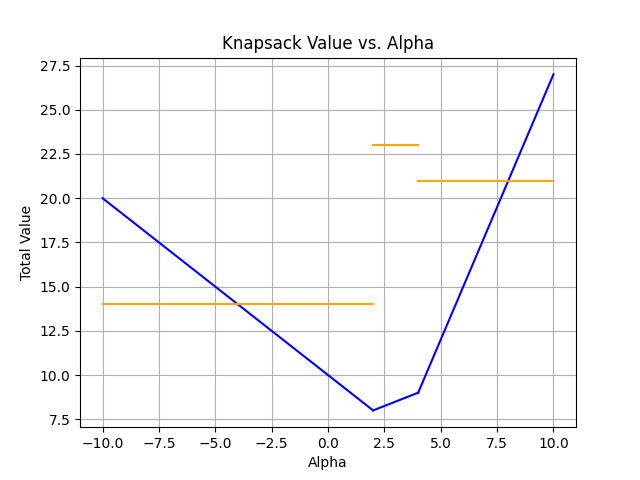
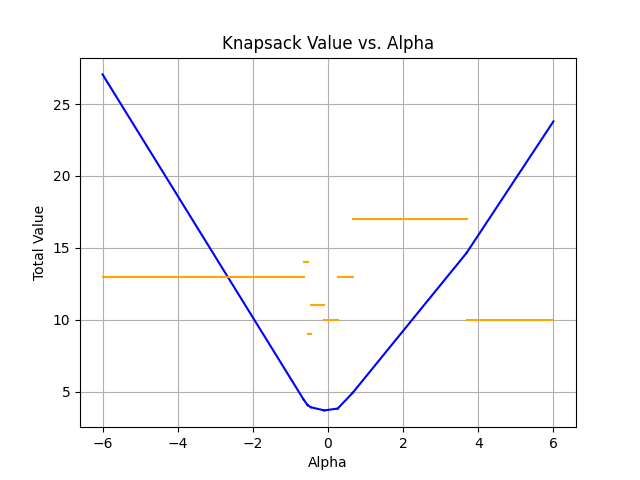
classify

diff --git a/dp/dynamic.py b/dp/dynamic.py
@@ -6,17 +6,20 @@ from matplotlib import colormaps
 
 
 # generate data for 2D knapsack
-m = 10000 # number of items
-n = 1 # number of data????????????????????????????
-p = 2 * m # size of feature
-deg = 2 # polynomial degree
-dim = 1 # dimension of knapsack
-noise_width = 0.5 # noise half-width
-caps = [100] * dim # capacity
-weights, x, c = pyepo.data.knapsack.genData(n, p, m, deg=deg, dim=dim, noise_width=noise_width, seed=36)
+m = 100  # number of items
+n = 1  # number of data????????????????????????????
+p = 2 * m  # size of feature
+deg = 2  # polynomial degree
+dim = 1  # dimension of knapsack
+noise_width = 0.5  # noise half-width
+caps = [10] * dim  # capacity
+weights, x, c = pyepo.data.knapsack.genData(
+    n, p, m, deg=deg, dim=dim, noise_width=noise_width, seed=36
+)
 x = x.reshape((m, -1))
 
 capacity = caps[0]
+
 
 class func:
     def __init__(self, slope, intercept, items=[]):
@@ -37,20 +40,31 @@ class space:
             res += f"<{interval[0]} - {interval[1]}>, func: {func.slope}x + {func.intercept}, items: {func.items}\n"
         return res
 
-class magic:
-    
+
+class DP_Knapsack:
+    def __init__(self, weights, x, left_bound, right_bound):
+        self.weights = weights
+        self.x = x
+        self.left_bound = left_bound
+        self.right_bound = right_bound
+        self.dp = np.empty((self.x.shape[0] + 1, capacity + 1), dtype=object)
+        self.result = space()
+
+    def get_result(self):
+        return self.result
+
     def max(space1, space2):
-        inter_list = magic.intersect(space1, space2)
+        inter_list = DP_Knapsack.intersect(space1, space2)
         res_intervals = []
         res_funcs = []
         for interval in inter_list:
-            func1 = magic.func_at_interval(space1, interval)
-            func2 = magic.func_at_interval(space2, interval)
+            func1 = DP_Knapsack.func_at_interval(space1, interval)
+            func2 = DP_Knapsack.func_at_interval(space2, interval)
             # get intersect
-            m = magic.intersect_point(func1, func2, interval)
+            m = DP_Knapsack.intersect_point(func1, func2, interval)
             if not m:
                 # add interval
-                
+
                 # add highest function at that interval
                 if (
                     func1.slope * (interval[0] + 1e-5) + func1.intercept
@@ -74,21 +88,25 @@ class magic:
                 else:
                     lower_func = func2
                     higher_func = func1
-                
+
                 res_intervals.append(lower_interval)
                 res_funcs.append(lower_func)
 
                 res_intervals.append(higher_interval)
                 res_funcs.append(higher_func)
-            if len(res_intervals)>=2 and res_funcs[-2].slope == res_funcs[-1].slope and res_funcs[-2].intercept == res_funcs[-1].intercept:
+            if (
+                len(res_intervals) >= 2
+                and res_funcs[-2].slope == res_funcs[-1].slope
+                and res_funcs[-2].intercept == res_funcs[-1].intercept
+            ):
                 new_interval = (res_intervals[-2][0], res_intervals[-1][1])
-                del res_intervals[(len(res_intervals)-1)]
-                del res_funcs[(len(res_funcs)-1)]
+                del res_intervals[(len(res_intervals) - 1)]
+                del res_funcs[(len(res_funcs) - 1)]
 
-                del res_intervals[(len(res_intervals)-1)]
+                del res_intervals[(len(res_intervals) - 1)]
                 res_intervals.append(new_interval)
         space3 = space(res_intervals, res_funcs)
-        #print(f'sapce1: {space1} space2: {space2} space3: {space3}')
+        # print(f'sapce1: {space1} space2: {space2} space3: {space3}')
         return space3
 
     def intersect(space1, space2):
@@ -152,39 +170,62 @@ class magic:
             res_func.append(func(a, b, items))
         return space(inter_list, res_func)
 
-def funcSac(weights, x, left_bound, right_bound):
-    n = x.shape[0]
-    dp = np.empty((n + 1, capacity + 1), dtype=object)
-    dp[0, :] = space(intervals=[(left_bound, right_bound)])
-    dp[:, 0] = space(intervals=[(left_bound, right_bound)])
-    int_weights = np.ceil(weights).astype('int')
-    for i in range(1, n + 1):
-        for w in range(capacity + 1):
-            if weights[i-1] <= w:
-                dp[i][w] = magic.max(
-                    dp[i - 1][w],
-                    magic.add(
-                        dp[i - 1][w - int_weights[i-1]],
-                        func(x[i-1][0], x[i-1][1]),
-                        i-1,
-                    ),
+    def plot(linear=True, horizontal=True):
+        for interval, function in zip(res.intervals, res.funcs):
+            if linear:
+                plt.plot(
+                    [interval[0], interval[1]],
+                    [
+                        function.slope * interval[0] + function.intercept,
+                        function.slope * interval[1] + function.intercept,
+                    ],
+                    "-",
+                    color="blue",
                 )
-            else:
-                dp[i][w] = dp[i - 1][w]
-    return dp[n][capacity]
+            if horizontal:
+                plt.plot(
+                    [interval[0], interval[1]],
+                    [sum([c[0][idx] for idx in function.items])] * 2,
+                    "-",
+                    color="orange",
+                )
+        plt.xlabel("Alpha")
+        plt.ylabel("Total Value")
+        plt.title("Knapsack Value vs. Alpha")
+        plt.grid(True)
+        plt.savefig("knapsack_value_vs_alpha.png")
+        return "knapsack_value_vs_alpha.png"
+
+    def solve(self):
+        n = self.x.shape[0]
+        dp = np.empty((n + 1, capacity + 1), dtype=object)
+        dp[0, :] = space(intervals=[(self.left_bound, self.right_bound)])
+        dp[:, 0] = space(intervals=[(self.left_bound, self.right_bound)])
+        int_weights = np.ceil(self.weights).astype("int")
+        for i in range(1, n + 1):
+            for w in range(capacity + 1):
+                if self.weights[i - 1] <= w:
+                    dp[i][w] = DP_Knapsack.max(
+                        dp[i - 1][w],
+                        DP_Knapsack.add(
+                            dp[i - 1][w - int_weights[i - 1]],
+                            func(self.x[i - 1][0], self.x[i - 1][1]),
+                            i - 1,
+                        ),
+                    )
+                else:
+                    dp[i][w] = dp[i - 1][w]
+        self.dp = dp
+        self.result = dp[n][capacity]
+        return dp[n][capacity]
 
 
-res = funcSac(weights[0], x, -6, 6)
-print(res)
+dp_problem = DP_Knapsack(weights[0], x, -6, 6)
+res = dp_problem.solve()
 
-for interval, function in zip(res.intervals, res.funcs):
-    plt.plot([interval[0], interval[1]], [function.slope * interval[0] + function.intercept, function.slope * interval[1] + function.intercept], '-', color="blue")
-    plt.plot([interval[0], interval[1]], [sum([c[0][idx] for idx in function.items])] * 2, '-', color="orange")
-plt.xlabel("Alpha")
-plt.ylabel("Total Value")
-plt.title("Knapsack Value vs. Alpha")
-plt.grid(True)
-plt.savefig("knapsack_value_vs_alpha.png")
+# print(res)
+# plt.imshow(plt.imread(dp_problem.plot()))
+
 
 # def calculate_value(x, alpha):
 #     return x[0] * alpha + x[1]
